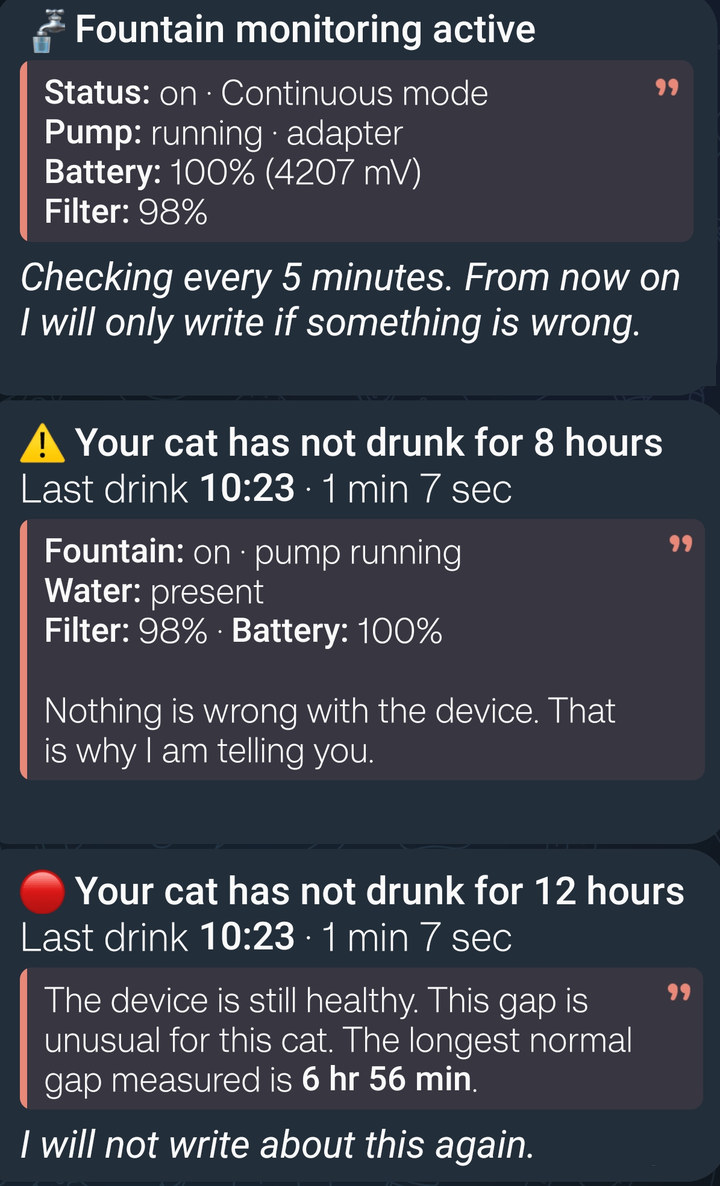
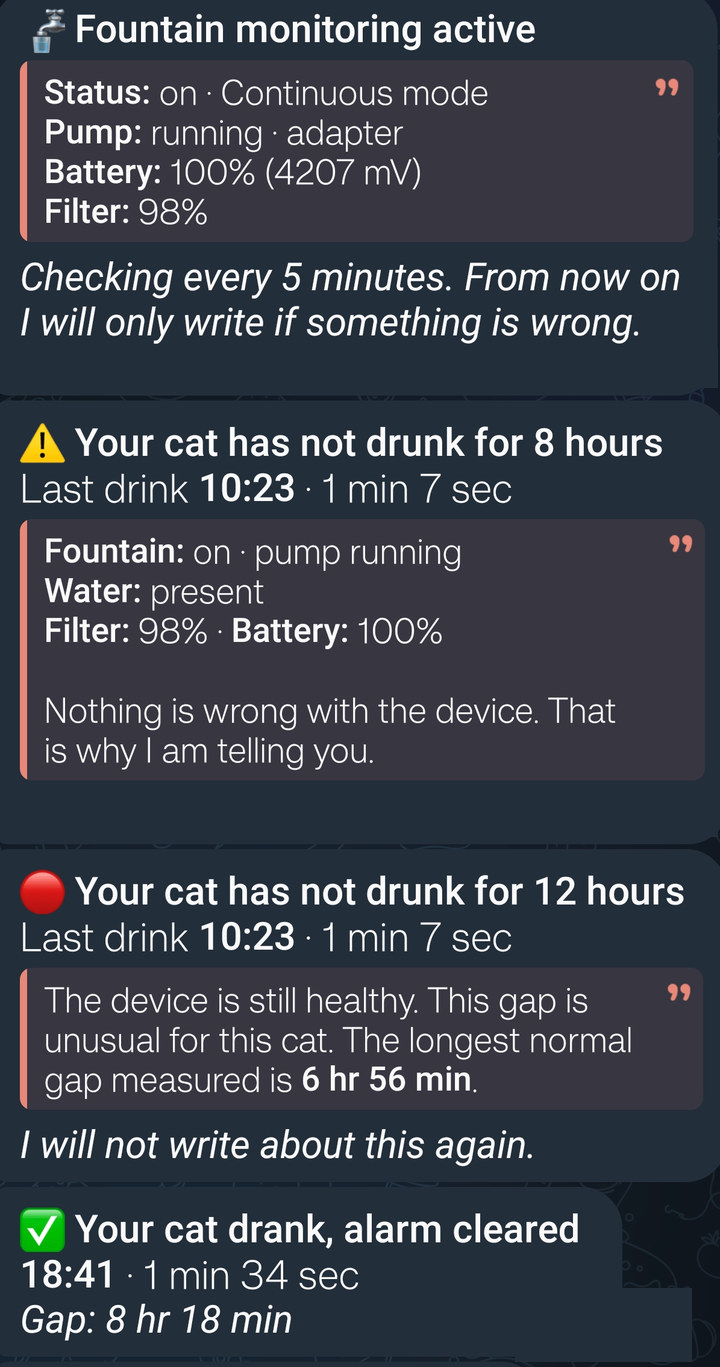
Show every message type in the README, not just two
The trigger table lists five categories and only two of them were pictured.
Added the alert family as a third screenshot: water empty and refilled, device
fault, unreachable and back with the outage length, filter and battery
thresholds. Extended the thirst image to include the all-clear, so the full
lifecycle is visible: banner, eight hours, twelve-hour escalation, cleared.

All twelve message types are now shown. Every timestamp is masked with the
surrounding bubble colour rather than cropped, which keeps lines that share a
row with one, such as "I will not write about this again" and "Gap: 8 hr 18
min".

Claude-Session: https://claude.ai/code/session_01NEq49ppgEt7sFE5P1HPAov

diff --git a/README.md b/README.md
@@ -74,13 +74,22 @@ gateway was awake.
 
 <img src="docs/images/daily-summary.jpg" width="420" alt="Daily summary in Telegram: 19 drinks, 32 min 24 sec total, the full visit list, pump runtime, battery, filter, and a system health receipt">
 
-The alarm the whole project exists for, and its escalation:
+The alarm the whole project exists for, from the startup banner through to the
+all-clear:
 
-<img src="docs/images/thirst-alarm.jpg" width="420" alt="Telegram messages: startup banner, an eight-hour thirst alarm stating nothing is wrong with the device, and a twelve-hour escalation that promises not to write again">
+<img src="docs/images/thirst-alarm.jpg" width="420" alt="Telegram messages: startup banner, an eight-hour thirst alarm stating nothing is wrong with the device, a twelve-hour escalation that promises not to write again, and the all-clear when the cat drinks">
 
 Note what the alarm says: *nothing is wrong with the device, that is why I am
-telling you.* And that the escalation promises to stop talking. Both are
-deliberate.
+telling you.* Note also that the escalation promises to stop talking, and then
+does. An alarm that repeats itself is an alarm you learn to ignore.
+
+Everything else it can send. Each problem has a matching all-clear, so you are
+never left wondering whether something resolved itself:
+
+<img src="docs/images/alerts.jpg" width="420" alt="Telegram messages: water empty and refilled, a device fault, the fountain becoming unreachable and coming back with the outage length, and filter and battery threshold warnings">
+
+That is the complete set. Twelve message types, and on a normal day you get
+exactly one of them: the summary.
 
 ### Try it with no fountain, no phone and no bot
 
